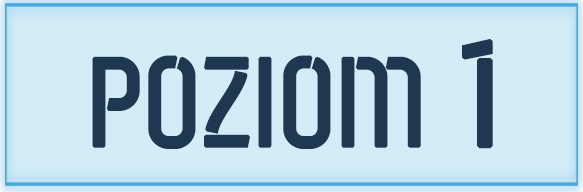
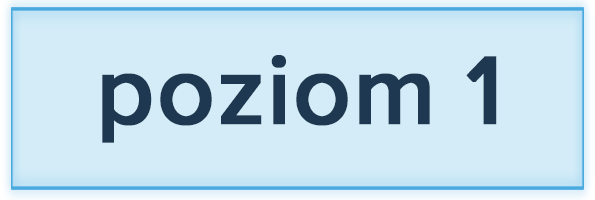
zmienione grafiki

diff --git a/src/components/SceneLevelOneChoise.vue b/src/components/SceneLevelOneChoise.vue
@@ -6,6 +6,7 @@ defineEmits(['wybor-levelu1']);
 <template>
     <div class="tlo-level1"></div>
     <button class="level-one-button" @click="$emit('wybor-levelu1')"  role="img" alt="ikona Level Pierwszy" aria-label="Przycisk poziom jeden" ></button>
+    <button class="level-two-button"   role="img" alt="ikona Level Drugi" aria-label="Przycisk poziom dwa" disabled ></button>
 </template>
 
 <style scoped>
@@ -33,5 +34,16 @@ defineEmits(['wybor-levelu1']);
 }
 .level-one-button:focus {
     outline: thick double #08e926;
+}
+
+.level-two-button{
+    background-image: url("../assets/poziom2_nieaktywny_popr.png");
+    background-size: 392px 130px;
+    background-position: -2px -1px;
+    position: absolute;
+    top: 295px;
+    left: 712px;
+    width: 392px;
+    height: 130px;
 }
 </style>

diff --git a/src/components/ScenaStart.vue b/src/components/ScenaStart.vue
@@ -5,24 +5,10 @@ const emit = defineEmits(['koniec-planszy'])
 
 
 
-// przykład obsługi zdarzeń z klawiatury w Vue 3
-function handleKeydown(event) {
-    if (event.key === 'Enter') {
-        console.log('Naciśnięto Enter');
-        emit('koniec-planszy');
-    }
-}
-
-onMounted(() => {document.addEventListener('keydown', handleKeydown);}
-)
-
-onUnmounted(() => {
-    document.removeEventListener('keydown', handleKeydown);
-});
 </script>
 
 <template>
-    <div class="tlo" aria-label="Plansza startowa"></div>
+    <div class="tlo" role="img" alt="plansza" aria-label="Plansza startowa"></div>
     <button class="start" @click="$emit('koniec-planszy')" role="img" alt="ikona Start" aria-label="przycisk start"></button>
 </template>
 

diff --git a/src/components/SceneMain2.vue b/src/components/SceneMain2.vue
@@ -192,7 +192,8 @@ function kostka_click() {
 
             } else {
                 console.log("quiz");
-                if_widok_quizz2.value = true
+                setTimeout(() => {
+                if_widok_quizz2.value = true}, 1000);
             }
         }
     };

diff --git a/src/components/SceneMain1.vue b/src/components/SceneMain1.vue
@@ -195,7 +195,8 @@ function kostka_click() {
 
             } else {
                 console.log("quiz");
-                if_widok_quizz1.value = true
+                setTimeout(() => {
+                if_widok_quizz1.value = true},1000)
             }
         }
     };

diff --git a/src/components/MainComp.vue b/src/components/MainComp.vue
@@ -68,6 +68,7 @@ function koniec_gry() {
     if_win.value = false;
     if_main1.value = false;
     if_main2.value = false;
+    if_level_two_choise.value = false;
     if_plansza_poczatkowa.value = true;
 }
 </script>

diff --git a/src/components/SceneWin.vue b/src/components/SceneWin.vue
@@ -5,7 +5,7 @@ defineOptions({
   inheritAttrs: false
 })
 
-const emit = defineEmits(['jeszcze-raz','koniec-gry']);
+defineEmits(['jeszcze-raz','koniec-gry']);
 </script>
 
 <template>
